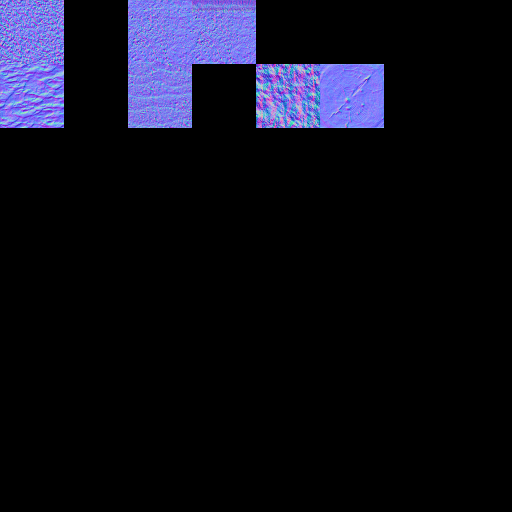
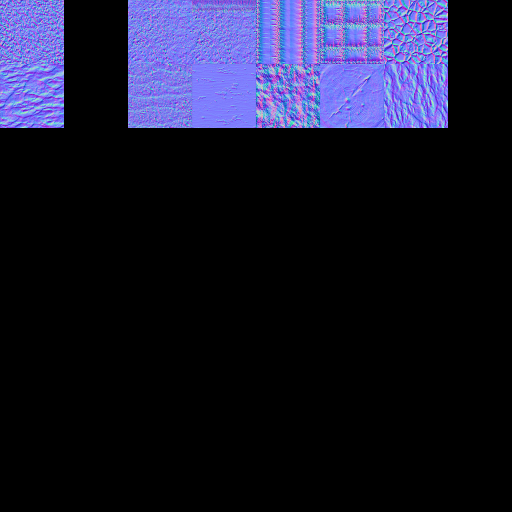
textures for trees added

Changed region(s): [[0.5, 0.0, 0.875, 0.25], [0.375, 0.125, 0.5, 0.25]]

diff --git a/game/ChunkGenerator.cpp b/game/ChunkGenerator.cpp
@@ -229,86 +229,86 @@ void ChunkGenerator::setBirchTree(Map& map, int x, int z, int xi, int zj, int no
 
     // Baumstamm
     for(int l = 0; l <= height; l++) {
-    	map.getChunk({x, z}).setBlockType({xi, k+l, zj}, BlockType::Wood);
+    	map.getChunk({x, z}).setBlockType({xi, k+l, zj}, BlockType::Birch);
     }
 
     // 4th row
    	k = k + height;
-   	map.getChunk({x, z}).setBlockType({xi, k+1, zj}, BlockType::Wood);
-  	map.getChunk({x, z}).setBlockType({xi-1, k+1, zj}, BlockType::Sand);
-  	map.getChunk({x, z}).setBlockType({xi+1, k+1, zj}, BlockType::Sand);
-  	map.getChunk({x, z}).setBlockType({xi-2, k+1, zj}, BlockType::Sand);
-  	map.getChunk({x, z}).setBlockType({xi+2, k+1, zj}, BlockType::Sand);
+   	map.getChunk({x, z}).setBlockType({xi, k+1, zj}, BlockType::Birch);
+  	map.getChunk({x, z}).setBlockType({xi-1, k+1, zj}, BlockType::Leaves);
+  	map.getChunk({x, z}).setBlockType({xi+1, k+1, zj}, BlockType::Leaves);
+  	map.getChunk({x, z}).setBlockType({xi-2, k+1, zj}, BlockType::Leaves);
+  	map.getChunk({x, z}).setBlockType({xi+2, k+1, zj}, BlockType::Leaves);
 
-  	map.getChunk({x, z}).setBlockType({xi, k+1, zj+1}, BlockType::Sand);
-  	map.getChunk({x, z}).setBlockType({xi-1, k+1, zj+1}, BlockType::Sand);
-  	map.getChunk({x, z}).setBlockType({xi+1, k+1, zj+1}, BlockType::Sand);
-  	map.getChunk({x, z}).setBlockType({xi-2, k+1, zj+1}, BlockType::Sand);
-  	map.getChunk({x, z}).setBlockType({xi+2, k+1, zj+1}, BlockType::Sand);
+  	map.getChunk({x, z}).setBlockType({xi, k+1, zj+1}, BlockType::Leaves);
+  	map.getChunk({x, z}).setBlockType({xi-1, k+1, zj+1}, BlockType::Leaves);
+  	map.getChunk({x, z}).setBlockType({xi+1, k+1, zj+1}, BlockType::Leaves);
+  	map.getChunk({x, z}).setBlockType({xi-2, k+1, zj+1}, BlockType::Leaves);
+  	map.getChunk({x, z}).setBlockType({xi+2, k+1, zj+1}, BlockType::Leaves);
 
-  	map.getChunk({x, z}).setBlockType({xi, k+1, zj-1}, BlockType::Sand);
-  	map.getChunk({x, z}).setBlockType({xi-1, k+1, zj-1}, BlockType::Sand);
-  	map.getChunk({x, z}).setBlockType({xi+1, k+1, zj-1}, BlockType::Sand);
-  	map.getChunk({x, z}).setBlockType({xi-2, k+1, zj-1}, BlockType::Sand);
-  	map.getChunk({x, z}).setBlockType({xi+2, k+1, zj-1}, BlockType::Sand);
+  	map.getChunk({x, z}).setBlockType({xi, k+1, zj-1}, BlockType::Leaves);
+  	map.getChunk({x, z}).setBlockType({xi-1, k+1, zj-1}, BlockType::Leaves);
+  	map.getChunk({x, z}).setBlockType({xi+1, k+1, zj-1}, BlockType::Leaves);
+  	map.getChunk({x, z}).setBlockType({xi-2, k+1, zj-1}, BlockType::Leaves);
+  	map.getChunk({x, z}).setBlockType({xi+2, k+1, zj-1}, BlockType::Leaves);
 
 
-  	map.getChunk({x, z}).setBlockType({xi, k+1, zj-2}, BlockType::Sand);
-  	map.getChunk({x, z}).setBlockType({xi-1, k+1, zj-2}, BlockType::Sand);
-  	map.getChunk({x, z}).setBlockType({xi+1, k+1, zj-2}, BlockType::Sand);
+  	map.getChunk({x, z}).setBlockType({xi, k+1, zj-2}, BlockType::Leaves);
+  	map.getChunk({x, z}).setBlockType({xi-1, k+1, zj-2}, BlockType::Leaves);
+  	map.getChunk({x, z}).setBlockType({xi+1, k+1, zj-2}, BlockType::Leaves);
 
-  	map.getChunk({x, z}).setBlockType({xi, k+1, zj+2}, BlockType::Sand);
-  	map.getChunk({x, z}).setBlockType({xi-1, k+1, zj+2}, BlockType::Sand);
-  	map.getChunk({x, z}).setBlockType({xi+1, k+1, zj+2}, BlockType::Sand);
+  	map.getChunk({x, z}).setBlockType({xi, k+1, zj+2}, BlockType::Leaves);
+  	map.getChunk({x, z}).setBlockType({xi-1, k+1, zj+2}, BlockType::Leaves);
+  	map.getChunk({x, z}).setBlockType({xi+1, k+1, zj+2}, BlockType::Leaves);
 
   	// 3rd row
    	k++;
    	map.getChunk({x, z}).setBlockType({xi, k+1, zj}, BlockType::Wood);
-  	map.getChunk({x, z}).setBlockType({xi-1, k+1, zj}, BlockType::Sand);
-  	map.getChunk({x, z}).setBlockType({xi+1, k+1, zj}, BlockType::Sand);
-  	map.getChunk({x, z}).setBlockType({xi-2, k+1, zj}, BlockType::Sand);
-  	map.getChunk({x, z}).setBlockType({xi+2, k+1, zj}, BlockType::Sand);
+  	map.getChunk({x, z}).setBlockType({xi-1, k+1, zj}, BlockType::Leaves);
+  	map.getChunk({x, z}).setBlockType({xi+1, k+1, zj}, BlockType::Leaves);
+  	map.getChunk({x, z}).setBlockType({xi-2, k+1, zj}, BlockType::Leaves);
+  	map.getChunk({x, z}).setBlockType({xi+2, k+1, zj}, BlockType::Leaves);
 
-  	map.getChunk({x, z}).setBlockType({xi, k+1, zj+1}, BlockType::Sand);
-  	map.getChunk({x, z}).setBlockType({xi-1, k+1, zj+1}, BlockType::Sand);
-  	map.getChunk({x, z}).setBlockType({xi+1, k+1, zj+1}, BlockType::Sand);
-  	map.getChunk({x, z}).setBlockType({xi-2, k+1, zj+1}, BlockType::Sand);
-  	map.getChunk({x, z}).setBlockType({xi+2, k+1, zj+1}, BlockType::Sand);
+  	map.getChunk({x, z}).setBlockType({xi, k+1, zj+1}, BlockType::Leaves);
+  	map.getChunk({x, z}).setBlockType({xi-1, k+1, zj+1}, BlockType::Leaves);
+  	map.getChunk({x, z}).setBlockType({xi+1, k+1, zj+1}, BlockType::Leaves);
+  	map.getChunk({x, z}).setBlockType({xi-2, k+1, zj+1}, BlockType::Leaves);
+  	map.getChunk({x, z}).setBlockType({xi+2, k+1, zj+1}, BlockType::Leaves);
 
-  	map.getChunk({x, z}).setBlockType({xi, k+1, zj-1}, BlockType::Sand);
-  	map.getChunk({x, z}).setBlockType({xi-1, k+1, zj-1}, BlockType::Sand);
-  	map.getChunk({x, z}).setBlockType({xi+1, k+1, zj-1}, BlockType::Sand);
-  	map.getChunk({x, z}).setBlockType({xi-2, k+1, zj-1}, BlockType::Sand);
-  	map.getChunk({x, z}).setBlockType({xi+2, k+1, zj-1}, BlockType::Sand);
+  	map.getChunk({x, z}).setBlockType({xi, k+1, zj-1}, BlockType::Leaves);
+  	map.getChunk({x, z}).setBlockType({xi-1, k+1, zj-1}, BlockType::Leaves);
+  	map.getChunk({x, z}).setBlockType({xi+1, k+1, zj-1}, BlockType::Leaves);
+  	map.getChunk({x, z}).setBlockType({xi-2, k+1, zj-1}, BlockType::Leaves);
+  	map.getChunk({x, z}).setBlockType({xi+2, k+1, zj-1}, BlockType::Leaves);
 
 
-  	map.getChunk({x, z}).setBlockType({xi, k+1, zj-2}, BlockType::Sand);
-  	map.getChunk({x, z}).setBlockType({xi-1, k+1, zj-2}, BlockType::Sand);
-  	map.getChunk({x, z}).setBlockType({xi+1, k+1, zj-2}, BlockType::Sand);
+  	map.getChunk({x, z}).setBlockType({xi, k+1, zj-2}, BlockType::Leaves);
+  	map.getChunk({x, z}).setBlockType({xi-1, k+1, zj-2}, BlockType::Leaves);
+  	map.getChunk({x, z}).setBlockType({xi+1, k+1, zj-2}, BlockType::Leaves);
 
-  	map.getChunk({x, z}).setBlockType({xi, k+1, zj+2}, BlockType::Sand);
-  	map.getChunk({x, z}).setBlockType({xi-1, k+1, zj+2}, BlockType::Sand);
-  	map.getChunk({x, z}).setBlockType({xi+1, k+1, zj+2}, BlockType::Sand);
+  	map.getChunk({x, z}).setBlockType({xi, k+1, zj+2}, BlockType::Leaves);
+  	map.getChunk({x, z}).setBlockType({xi-1, k+1, zj+2}, BlockType::Leaves);
+  	map.getChunk({x, z}).setBlockType({xi+1, k+1, zj+2}, BlockType::Leaves);
 
   	// 2nd row
    	k++;;
    	map.getChunk({x, z}).setBlockType({xi, k+1, zj}, BlockType::Wood);
-  	map.getChunk({x, z}).setBlockType({xi-1, k+1, zj}, BlockType::Sand);
-  	map.getChunk({x, z}).setBlockType({xi+1, k+1, zj}, BlockType::Sand);
-  	map.getChunk({x, z}).setBlockType({xi, k+1, zj+1}, BlockType::Sand);
-  	map.getChunk({x, z}).setBlockType({xi, k+1, zj-1}, BlockType::Sand);
+  	map.getChunk({x, z}).setBlockType({xi-1, k+1, zj}, BlockType::Leaves);
+  	map.getChunk({x, z}).setBlockType({xi+1, k+1, zj}, BlockType::Leaves);
+  	map.getChunk({x, z}).setBlockType({xi, k+1, zj+1}, BlockType::Leaves);
+  	map.getChunk({x, z}).setBlockType({xi, k+1, zj-1}, BlockType::Leaves);
 
   	// 1st row
    	k++;;
-   	map.getChunk({x, z}).setBlockType({xi, k+1, zj}, BlockType::Sand);
-  	map.getChunk({x, z}).setBlockType({xi-1, k+1, zj}, BlockType::Sand);
-  	map.getChunk({x, z}).setBlockType({xi+1, k+1, zj}, BlockType::Sand);
-  	map.getChunk({x, z}).setBlockType({xi, k+1, zj+1}, BlockType::Sand);
-  	map.getChunk({x, z}).setBlockType({xi, k+1, zj-1}, BlockType::Sand);
+   	map.getChunk({x, z}).setBlockType({xi, k+1, zj}, BlockType::Leaves);
+  	map.getChunk({x, z}).setBlockType({xi-1, k+1, zj}, BlockType::Leaves);
+  	map.getChunk({x, z}).setBlockType({xi+1, k+1, zj}, BlockType::Leaves);
+  	map.getChunk({x, z}).setBlockType({xi, k+1, zj+1}, BlockType::Leaves);
+  	map.getChunk({x, z}).setBlockType({xi, k+1, zj-1}, BlockType::Leaves);
 
   	// top row
   	k++;
-		map.getChunk({x, z}).setBlockType({xi, k+1, zj}, BlockType::Sand);
+		map.getChunk({x, z}).setBlockType({xi, k+1, zj}, BlockType::Leaves);
 }
 
 
@@ -390,35 +390,35 @@ void ChunkGenerator::setCactusTree(Map& map, int x, int z, int xi, int zj, int n
 
   // Baumstamm
   for(int l = 0; l <= height; l++) {
-  	map.getChunk({x, z}).setBlockType({xi, k+l, zj}, BlockType::Wood);
+  	map.getChunk({x, z}).setBlockType({xi, k+l, zj}, BlockType::Cactus);
   }
 
   // 1st arm
   k += 1;
-  map.getChunk({x, z}).setBlockType({xi+1, k, zj}, BlockType::Wood);
-  map.getChunk({x, z}).setBlockType({xi+2, k, zj}, BlockType::Wood);
-  map.getChunk({x, z}).setBlockType({xi+2, k+1, zj}, BlockType::Wood);
-  map.getChunk({x, z}).setBlockType({xi+2, k+2, zj}, BlockType::Wood);
-  map.getChunk({x, z}).setBlockType({xi+2, k+3, zj}, BlockType::Wood);
+  map.getChunk({x, z}).setBlockType({xi+1, k, zj}, BlockType::Cactus);
+  map.getChunk({x, z}).setBlockType({xi+2, k, zj}, BlockType::Cactus);
+  map.getChunk({x, z}).setBlockType({xi+2, k+1, zj}, BlockType::Cactus);
+  map.getChunk({x, z}).setBlockType({xi+2, k+2, zj}, BlockType::Cactus);
+  map.getChunk({x, z}).setBlockType({xi+2, k+3, zj}, BlockType::Cactus);
 
   // 2nd arm
-  map.getChunk({x, z}).setBlockType({xi, k+2, zj+1}, BlockType::Wood);
-  map.getChunk({x, z}).setBlockType({xi, k+2, zj+2}, BlockType::Wood);
-  map.getChunk({x, z}).setBlockType({xi, k+3, zj+2}, BlockType::Wood);
-  map.getChunk({x, z}).setBlockType({xi, k+4, zj+2}, BlockType::Wood);
+  map.getChunk({x, z}).setBlockType({xi, k+2, zj+1}, BlockType::Cactus);
+  map.getChunk({x, z}).setBlockType({xi, k+2, zj+2}, BlockType::Cactus);
+  map.getChunk({x, z}).setBlockType({xi, k+3, zj+2}, BlockType::Cactus);
+  map.getChunk({x, z}).setBlockType({xi, k+4, zj+2}, BlockType::Cactus);
 
   // 3rd arm
-  map.getChunk({x, z}).setBlockType({xi, k+1, zj-1}, BlockType::Wood);
-  map.getChunk({x, z}).setBlockType({xi, k+1, zj-2}, BlockType::Wood);
-  map.getChunk({x, z}).setBlockType({xi, k+2, zj-2}, BlockType::Wood);
-  map.getChunk({x, z}).setBlockType({xi, k+3, zj-2}, BlockType::Wood);
-  map.getChunk({x, z}).setBlockType({xi, k+4, zj-2}, BlockType::Wood);
-  map.getChunk({x, z}).setBlockType({xi, k+5, zj-2}, BlockType::Wood);
+  map.getChunk({x, z}).setBlockType({xi, k+1, zj-1}, BlockType::Cactus);
+  map.getChunk({x, z}).setBlockType({xi, k+1, zj-2}, BlockType::Cactus);
+  map.getChunk({x, z}).setBlockType({xi, k+2, zj-2}, BlockType::Cactus);
+  map.getChunk({x, z}).setBlockType({xi, k+3, zj-2}, BlockType::Cactus);
+  map.getChunk({x, z}).setBlockType({xi, k+4, zj-2}, BlockType::Cactus);
+  map.getChunk({x, z}).setBlockType({xi, k+5, zj-2}, BlockType::Cactus);
 
   // 4th arm
-  map.getChunk({x, z}).setBlockType({xi-1, k+4, zj}, BlockType::Wood);
-  map.getChunk({x, z}).setBlockType({xi-2, k+4, zj}, BlockType::Wood);
-  map.getChunk({x, z}).setBlockType({xi-2, k+5, zj}, BlockType::Wood);
+  map.getChunk({x, z}).setBlockType({xi-1, k+4, zj}, BlockType::Cactus);
+  map.getChunk({x, z}).setBlockType({xi-2, k+4, zj}, BlockType::Cactus);
+  map.getChunk({x, z}).setBlockType({xi-2, k+5, zj}, BlockType::Cactus);
 }
 
 
@@ -431,7 +431,7 @@ void ChunkGenerator::setPalmTree(Map& map, int x, int z, int xi, int zj, int noi
 
   // Baumstamm
   for(int l = 0; l <= height; l++) {
-  	map.getChunk({x, z}).setBlockType({xi, k+l, zj}, BlockType::Wood);
+  	map.getChunk({x, z}).setBlockType({xi, k+l, zj}, BlockType::Palm);
   }  
 
   // 3th row
@@ -485,7 +485,7 @@ void ChunkGenerator::setPalmTree(Map& map, int x, int z, int xi, int zj, int noi
 
   // 2nd row
   k++;
-  map.getChunk({x, z}).setBlockType({xi, k, zj}, BlockType::Wood);
+  map.getChunk({x, z}).setBlockType({xi, k, zj}, BlockType::Palm);
   map.getChunk({x, z}).setBlockType({xi-1, k, zj}, BlockType::Sand);
   map.getChunk({x, z}).setBlockType({xi-2, k, zj}, BlockType::Sand);
   map.getChunk({x, z}).setBlockType({xi-3, k, zj}, BlockType::Sand);

diff --git a/game/BlockType.cpp b/game/BlockType.cpp
@@ -73,6 +73,54 @@ Vec2f getTexCoords(BlockType type, BlockSide side){
 				return m*Vec2f(3,0);
 		}
 
+		case BlockType::Cactus:
+		switch(side){
+			case BlockSide::Top: 
+			case BlockSide::Bottom:
+				return m * Vec2f(5,0);
+			case BlockSide::North:
+			case BlockSide::South:
+			case BlockSide::West:
+			case BlockSide::East:
+				return m*Vec2f(4,0);
+		}
+
+		case BlockType::Birch:
+		switch(side){
+			case BlockSide::Top: 
+			case BlockSide::Bottom:
+				return m * Vec2f(5, 1);
+			case BlockSide::North:
+			case BlockSide::South:
+			case BlockSide::West:
+			case BlockSide::East:
+				return m*Vec2f(3,1);
+		}
+
+		case BlockType::Palm:
+		switch(side){
+			case BlockSide::Top: 
+			case BlockSide::Bottom:
+				return m * Vec2f(5, 1);
+			case BlockSide::North:
+			case BlockSide::South:
+			case BlockSide::West:
+			case BlockSide::East:
+				return m*Vec2f(6,1);
+		}
+
+		case BlockType::Leaves:
+		switch(side){
+			case BlockSide::Top: 
+			case BlockSide::Bottom:
+			case BlockSide::North:
+			case BlockSide::South:
+			case BlockSide::West:
+			case BlockSide::East:
+				return m*Vec2f(6,0);
+		}
+
+
 		default: return m*Vec2f(7,7);
 		
 	}

diff --git a/game/BlockType.hpp b/game/BlockType.hpp
@@ -9,7 +9,7 @@ using namespace lumina;
 */
 enum class BlockType
 {
-	Air, Dirt, Wood, Stone, Water, Sand, Grass
+	Air, Dirt, Wood, Stone, Water, Sand, Grass, Cactus, Birch, Palm, Leaves
 };
 
 enum class BlockSide{
